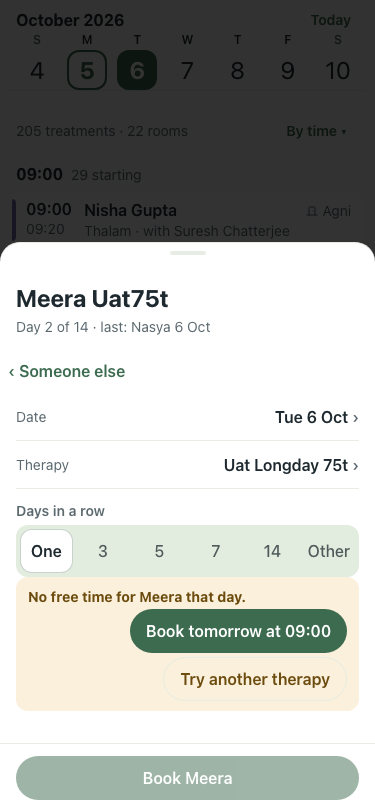
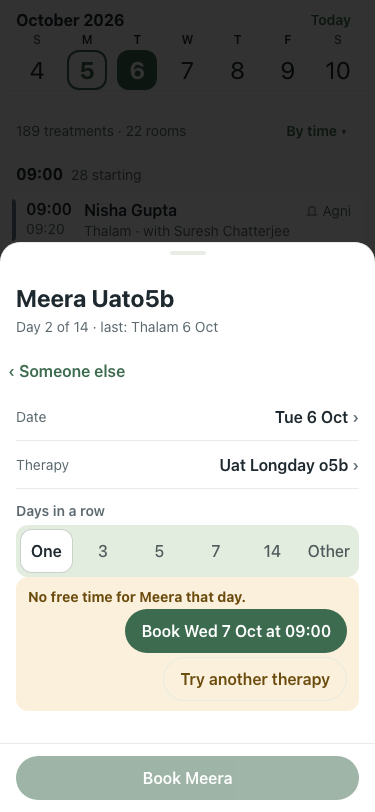
Booking from +: Booked panel carries Undo, tap-count walk and smoke test follow, UAT shots (#330)

diff --git a/src/components/TreatmentCard.tsx b/src/components/TreatmentCard.tsx
@@ -287,7 +287,7 @@ export function BookSheet({ open, onClose, day, today, isToday, nowMinutes, refr
   const [roomId, setRoomId] = useState("");
   const [busy, setBusy] = useState(false);
   // After Book the sheet stays on this, so several treatments for one patient are a tap each (#330).
-  const [booked, setBooked] = useState<{ text: string; count?: number } | null>(null);
+  const [booked, setBooked] = useState<{ text: string; count?: number; ids: string[]; note: string } | null>(null);
   const [round, setRound] = useState(0);
   // A centre with the whole library has forty therapies: past a dozen the list is the last one had, and a search.
   const [pickTherapy, setPickTherapy] = useState(false);
@@ -366,8 +366,7 @@ export function BookSheet({ open, onClose, day, today, isToday, nowMinutes, refr
       return;
     }
     await refresh();
-    setBooked({ text: `${therapyName} at ${time}.`, count: body.day_count });
-    toastBooked(`Booked ${first}: ${therapyName} at ${time}`, [body.id]);
+    setBooked({ text: `${therapyName} at ${time}.`, count: body.day_count, ids: [body.id], note: `Booked ${first}: ${therapyName} at ${time}` });
   };
   /** A course: one a day from the date, at this time with this therapist and room. All of it or none of it. */
   const bookCourse = async () => {
@@ -384,15 +383,25 @@ export function BookSheet({ open, onClose, day, today, isToday, nowMinutes, refr
       return;
     }
     await refresh();
-    setBooked({ text: `${sessions} × ${therapyName} at ${time}.` });
-    toastBooked(`Booked ${first}: ${sessions} × ${therapyName} at ${time}`, made);
+    setBooked({ text: `${sessions} × ${therapyName} at ${time}.`, ids: made, note: `Booked ${first}: ${sessions} × ${therapyName} at ${time}` });
   };
-  // At the top: the sheet stays open on Booked, and its buttons are where a bottom toast would land.
-  const toastBooked = (text: string, ids: string[]) => toast(text, { duration: 8000, position: "top-center", action: { label: "Undo", onClick: async () => {
-    await Promise.all(ids.map((id) => fetch(`${API_BASE}/appointments/${id}`, { method: "DELETE" })));
-    setBooked(null);
-    await refresh();
-  } } });
+  /** The sheet stays on Booked, so the note with Undo comes when it closes: at the bottom it would cover the buttons. */
+  const close = () => {
+    if (booked) toast(booked.note, { duration: 8000, action: { label: "Undo", onClick: async () => {
+      await Promise.all(booked.ids.map((id) => fetch(`${API_BASE}/appointments/${id}`, { method: "DELETE" })));
+      await refresh();
+    } } });
+    onClose();
+  };
+  const undoBooked = async () => {
+    if (!booked) return;
+    setBusy(true);
+    try {
+      await Promise.all(booked.ids.map((id) => fetch(`${API_BASE}/appointments/${id}`, { method: "DELETE" })));
+      await refresh();
+      setBooked(null); setTherapyId(""); setOpts(null); setRound((n) => n + 1);
+    } finally { setBusy(false); }
+  };
   const book = async () => {
     if (!chosen || !slot) return;
     setBusy(true);
@@ -415,14 +424,18 @@ export function BookSheet({ open, onClose, day, today, isToday, nowMinutes, refr
 
   return (
     <>
-    <BottomSheet open={open} onOpenChange={(o) => { if (!o) onClose(); }} title={booked ? "Booked" : chosen ? chosen.name : "Book a treatment"}
+    <BottomSheet open={open} onOpenChange={(o) => { if (!o) close(); }} title={booked ? "Booked" : chosen ? chosen.name : "Book a treatment"}
       note={booked ? chosen?.name : chosen ? chosen.note : "Who is it for?"}
-      foot={booked ? <TwoFoot main="Add another" onMain={another} alt="Done" onAlt={onClose} />
+      foot={booked ? undefined
         : chosen
         ? <SheetFoot busy={busy} ok={!!slot} save={book} label={label} />
         : <SearchField value={q} onChange={setQ} placeholder="Search patients" />}>
       {booked ? (
-        <Consequence>{booked.text}{booked.count ? ` ${first} has ${booked.count} ${date === today ? "today" : "that day"}.` : ""}</Consequence>
+        <div>
+          <Consequence>{booked.text}{booked.count ? ` ${first} has ${booked.count} ${date === today ? "today" : "that day"}.` : ""}</Consequence>
+          <div className="mt-3"><TwoFoot main="Add another" onMain={another} alt="Done" onAlt={close} busy={busy} /></div>
+          <div className="mt-1 text-center"><Btn kind="quiet" inline disabled={busy} onClick={undoBooked}>Undo</Btn></div>
+        </div>
       ) : !chosen ? (
         who === null ? <Loading rows={3} /> : (
           <WhoPicker q={q} chosen={null} all={who.all} onChoose={choose} onAdd={onAddPatient ? addInline : undefined}

diff --git a/tests/e2e/tapCount.spec.ts b/tests/e2e/tapCount.spec.ts
@@ -152,7 +152,7 @@ async function job(page: Page, rows: Row[], name: string, walk: Walk) {
 }
 
 test('tap count for the daily jobs, against the phone design', async ({ page, request }) => {
-  test.setTimeout(240000);
+  test.setTimeout(300000);
   const call = await api(request);
   const tz = ((await call.get('/settings')).timezone as string) || 'Asia/Kolkata';
   const ymd = (d: Date) => new Intl.DateTimeFormat('en-CA', { timeZone: tz, year: 'numeric', month: '2-digit', day: '2-digit' }).format(d);
@@ -241,14 +241,22 @@ test('tap count for the daily jobs, against the phone design', async ({ page, re
     // + asks who, then fills the rest in with a free time, therapist and room (#285 story 5).
     await job(page, rows, 'Book one treatment', async (tap) => {
       await showDay(page, day);
+      // Someone who has had a treatment before, so the list's first row is the last one they had (#330).
+      let name = '';
+      const who = (await call.get(`/appointments/who?date=${day}`)) as { none: { id: string; name: string }[]; all: { id: string; name: string }[] };
+      for (const p of [...who.none, ...who.all].slice(0, 40)) {
+        if (((await call.get(`/appointments/therapies?date=${day}&patient_id=${p.id}`)) as { therapies: { repeat: boolean }[] }).therapies.some((t) => t.repeat)) { name = p.name; break; }
+      }
+      expect(name, 'nobody in house has had a treatment before').not.toBe('');
       await tap(page.getByRole('button', { name: 'Book a treatment', exact: true }));
-      await tap(page.getByRole('dialog').getByRole('button', { name: /Day \d+ of/ }).first());
-      // The therapy is a visible list with nothing chosen: the first row that is not already booked today.
-      await tap(page.getByRole('dialog').getByRole('button', { pressed: false }).filter({ hasNotText: /already/ }).first());
+      await page.getByRole('dialog').getByLabel('Search patients').fill(name);
+      await tap(page.getByRole('dialog').getByRole('button', { name: new RegExp(`^${name}`) }).first());
+      // The therapy is a visible list with nothing chosen (#330).
+      await tap(page.getByRole('dialog').getByRole('button', { name: /Same as last time/ }).first());
       await tap(page.getByRole('dialog').getByRole('button', { name: /^Book / }));
-      const note = page.locator('[data-sonner-toast]').filter({ hasText: /^Booked/ });
-      await expect(note).toBeVisible({ timeout: 20000 });
-      await note.getByRole('button', { name: 'Undo' }).click();
+      // The sheet stays on Booked (#330); Undo is on it, and is not a tap of the job.
+      await expect(page.getByRole('dialog').getByText(/Booked/).first()).toBeVisible({ timeout: 20000 });
+      await page.getByRole('dialog').getByRole('button', { name: 'Undo', exact: true }).click();
     });
 
     // On the walk's day with a room taken out first: today's own problem has

diff --git a/tests/e2e/critical.spec.ts b/tests/e2e/critical.spec.ts
@@ -193,11 +193,11 @@ test('@smoke the booking sheet books a course of sessions in one go, and Undo ta
     const book = sheet.getByRole('button', { name: /^Book \w+, 3 days from/ });
     await expect(book).toBeEnabled({ timeout: 15000 });
     await book.click();
-    const toast = page.locator('[data-sonner-toast]').filter({ hasText: /3 ×/ });
-    await expect(toast).toBeVisible({ timeout: 20000 });
+    // The sheet stays on Booked (#330); Undo is on it.
+    await expect(sheet.getByText(/3 × .* at \d\d:\d\d/)).toBeVisible({ timeout: 20000 });
     const booked = async () => ((await call('get', `/appointments?patient_id=${patient.id}`)) as { scheduled_date: string }[]).map((a) => a.scheduled_date.slice(0, 10)).sort();
     expect(await booked()).toEqual(['2030-04-10', '2030-04-11', '2030-04-12']);
-    await toast.getByRole('button', { name: 'Undo' }).click();
+    await sheet.getByRole('button', { name: 'Undo', exact: true }).click();
     await expect.poll(booked, { timeout: 15000 }).toEqual([]);
   } finally {
     await tidy();

diff --git a/docs/design/uat/2026-10-06-booking/README.md b/docs/design/uat/2026-10-06-booking/README.md
@@ -4,19 +4,19 @@ Base http://localhost:8099, 375x812. Written by scripts/uat-330.mjs; it seeds it
 
 | # | Step | Result | Read off the page | Shot |
 |---|---|---|---|---|
-| 01 | Open + and choose Meera: no therapy is chosen, the list shows facts, Book says Choose a therapy | pass | Meera Uat75t Day 2 of 14 ‹ Someone else Date Tue 6 Oct › Choose a therapy Other therapies › Choose a therapy Close | ![01](01.png) |
-| 02 | Choose Snehapana: the best time, therapist and room fill in; Days in a row has chips | pass | Meera Uat75t Day 2 of 14 ‹ Someone else Date Tue 6 Oct › Therapy Snehapana › Days in a row One 3 5 7 14 Other Time 11:45best › 11:45 · best 12:00 12:15 12:30 12 | ![02](02.png) |
-| 03 | Book: the sheet stays on Booked with Add another and Done, the toast keeps Undo | pass | Booked Meera Uat75t Snehapana at 11:45. Meera has 1 that day. Add another Done Close | toast: Booked Meera: Snehapana at 11:45 Undo | ![03](03.png) |
-| 04 | Add another: the same patient, no therapy chosen; Snehapana is greyed "already at"; choosing it warns | pass | Meera Uat75t Day 2 of 14 ‹ Someone else Date Tue 6 Oct › Choose a therapy Snehapana already at 11:45 Other therapies › Choose a therapy Close || Meera Uat75t Day 2 of 14 ‹ Someone else Date Tue 6 Oct › Therapy Snehapana › Days in a row One 3 5 7 14 Other Meera already has Snehapana at 11:45. Booking it i | ![04](04.png) |
-| 05 | A different therapy, booked: the day now has 2 | pass | Booked Meera Uat75t Nasya at 12:15. Meera has 2 that day. Add another Done Close | ![05](05.png) |
-| 06 | Over the limit: Dev already has 4 tomorrow; the fifth shows the warning and Book anyway | pass | Dev Uat75t Day 2 of 14 · last: Padabhyanga 6 Oct ‹ Someone else Date Tue 6 Oct › Therapy Snehapana › Days in a row One 3 5 7 14 Other Dev already has 4 treatmen | ![06](06.png) |
-| 07 | Book anyway: it books, and the panel says Dev has 5 | pass | Booked Dev Uat75t Snehapana at 19:30. Dev has 5 that day. Add another Done Close | ![07](07.png) |
-| 08 | Dead end, not staying: the stay is named, with a day to go to and Change their stay | pass | Meera Uat75t Day 2 of 14 · last: Nasya 6 Oct ‹ Someone else Date Sat 14 Nov › Therapy Snehapana › Days in a row One 3 5 7 14 Other Their stay runs Mon 5 Oct to  | ![08](08.png) |
-| 09 | Dead end, no free time: the next free day is one tap | pass | Meera Uat75t Day 2 of 14 · last: Nasya 6 Oct ‹ Someone else Date Tue 6 Oct › Therapy Uat Longday 75t › Days in a row One 3 5 7 14 Other No free time for Meera t | ![09](09.png) |
-| 10 | Dead end, today's hours are over: Book tomorrow | pass | Meera Uat75t Day 1 of 14 · last: Nasya 6 Oct ‹ Someone else Date Mon 5 Oct › Therapy Snehapana › Days in a row One 3 5 7 14 Other Today's hours are over. Book t | ![10](10.png) |
-| 11 | Dead end, not enough therapists of her gender: add one, or allow any gender | pass | Meera Uat75t Day 2 of 14 · last: Nasya 6 Oct ‹ Someone else Date Tue 6 Oct › Therapy Uat Vamana 75t › Days in a row One 3 5 7 14 Other Uat Vamana 75t needs 2 th | ![11](11.png) |
+| 01 | Open + and choose Meera: no therapy is chosen, the list shows facts, Book says Choose a therapy | pass | Meera Uato5b Day 2 of 14 ‹ Someone else Date Tue 6 Oct › Choose a therapy Other therapies › Choose a therapy Close | ![01](01.png) |
+| 02 | Choose Gandusha: the best time, therapist and room fill in; Days in a row has chips | pass | Meera Uato5b Day 2 of 14 ‹ Someone else Date Tue 6 Oct › Therapy Gandusha › Days in a row One 3 5 7 14 Other Time 12:00best › 12:00 · best 12:15 12:30 12:45 13: | ![02](02.png) |
+| 03 | Book: the sheet stays on Booked with Add another, Done and Undo (the note with Undo comes when it closes) | pass | Booked Meera Uato5b Gandusha at 12:00. Meera has 1 that day. Add another Done Undo Close | ![03](03.png) |
+| 04 | Add another: the same patient, no therapy chosen; Gandusha is greyed "already at"; choosing it warns | pass | Meera Uato5b Day 2 of 14 ‹ Someone else Date Tue 6 Oct › Choose a therapy Gandusha already at 12:00 Other therapies › Choose a therapy Close || Meera Uato5b Day 2 of 14 ‹ Someone else Date Tue 6 Oct › Therapy Gandusha › Days in a row One 3 5 7 14 Other Meera already has Gandusha at 12:00. Booking it is  | ![04](04.png) |
+| 05 | A different therapy, booked: the day now has 2 | pass | Booked Meera Uato5b Thalam at 12:30. Meera has 2 that day. Add another Done Undo Close | ![05](05.png) |
+| 06 | Over the limit: Dev already has 4 tomorrow; the fifth shows the warning and Book anyway | pass | Dev Uato5b Day 2 of 14 · last: Nasya 6 Oct ‹ Someone else Date Tue 6 Oct › Therapy Gandusha › Days in a row One 3 5 7 14 Other Dev already has 4 treatments that | ![06](06.png) |
+| 07 | Book anyway: it books, and the panel says Dev has 5 | pass | Booked Dev Uato5b Gandusha at 13:00. Dev has 5 that day. Add another Done Undo Close | ![07](07.png) |
+| 08 | Dead end, not staying: the stay is named, with a day to go to and Change their stay | pass | Meera Uato5b Day 2 of 14 · last: Thalam 6 Oct ‹ Someone else Date Sat 14 Nov › Therapy Gandusha › Days in a row One 3 5 7 14 Other Their stay runs Mon 5 Oct to  | ![08](08.png) |
+| 09 | Dead end, no free time: the next free day is one tap | pass | Meera Uato5b Day 2 of 14 · last: Thalam 6 Oct ‹ Someone else Date Tue 6 Oct › Therapy Uat Longday o5b › Days in a row One 3 5 7 14 Other No free time for Meera  | ![09](09.png) |
+| 10 | Dead end, today's hours are over: Book tomorrow | pass | Meera Uato5b Day 1 of 14 · last: Thalam 6 Oct ‹ Someone else Date Mon 5 Oct › Therapy Gandusha › Days in a row One 3 5 7 14 Other Today's hours are over. Book t | ![10](10.png) |
+| 11 | Dead end, not enough therapists of her gender: add one, or allow any gender | pass | Meera Uato5b Day 2 of 14 · last: Thalam 6 Oct ‹ Someone else Date Tue 6 Oct › Therapy Uat Vamana o5b › Days in a row One 3 5 7 14 Other Uat Vamana o5b needs 2 t | ![11](11.png) |
 | 12 | Add a female therapist opens the form with Female and the therapy filled in | pass | Add therapist or doctor Name, role and gender are needed. The rest can wait. Name Role Therapist Doctor Gender Used when a therapy needs a therapist of the pati | ![12](12.png) |
-| 13 | Allow any gender: a time appears | pass | Meera Uat75t Day 2 of 14 · last: Nasya 6 Oct ‹ Someone else Date Tue 6 Oct › Therapy Uat Vamana 75t › Days in a row One 3 5 7 14 Other Time 09:45best › 09:45 ·  | ![13](13.png) |
-| 14 | New patient inline: nobody matches, so the name is offered as a new patient | pass | Book a treatment Who is it for? NO ONE FOUND Add “Zed Uat” as a new patient + Close | ![14](14.png) |
+| 13 | Allow any gender: a time appears | pass | Meera Uato5b Day 2 of 14 · last: Thalam 6 Oct ‹ Someone else Date Tue 6 Oct › Therapy Uat Vamana o5b › Days in a row One 3 5 7 14 Other Time 09:00best › 09:00 · | ![13](13.png) |
+| 14 | New patient inline: nobody matches, so the name is offered as a new patient | pass | Book a treatment Who is it for? NO ONE FOUND Add “Zed Uato5b” as a new patient + Close | ![14](14.png) |
 | 15 | The short form has the name filled in and no consultation to choose | pass | New patient Only name and gender are needed. Everything else can wait. Name ✓ Gender Female Male Other Arriving Tue 6 Oct Leaving Mon 19 Oct Stays on site Off f | ![15](15.png) |
-| 16 | Add: back on the booking with Zed chosen and the therapy list | pass | Zed Uat Day 1 of 14 ‹ Someone else Date Tue 6 Oct › Choose a therapy Other therapies › Choose a therapy Close | ![16](16.png) |
+| 16 | Add: back on the booking with Zed chosen and the therapy list | pass | Zed Uato5b Day 1 of 14 ‹ Someone else Date Tue 6 Oct › Choose a therapy Other therapies › Choose a therapy Close | ![16](16.png) |
